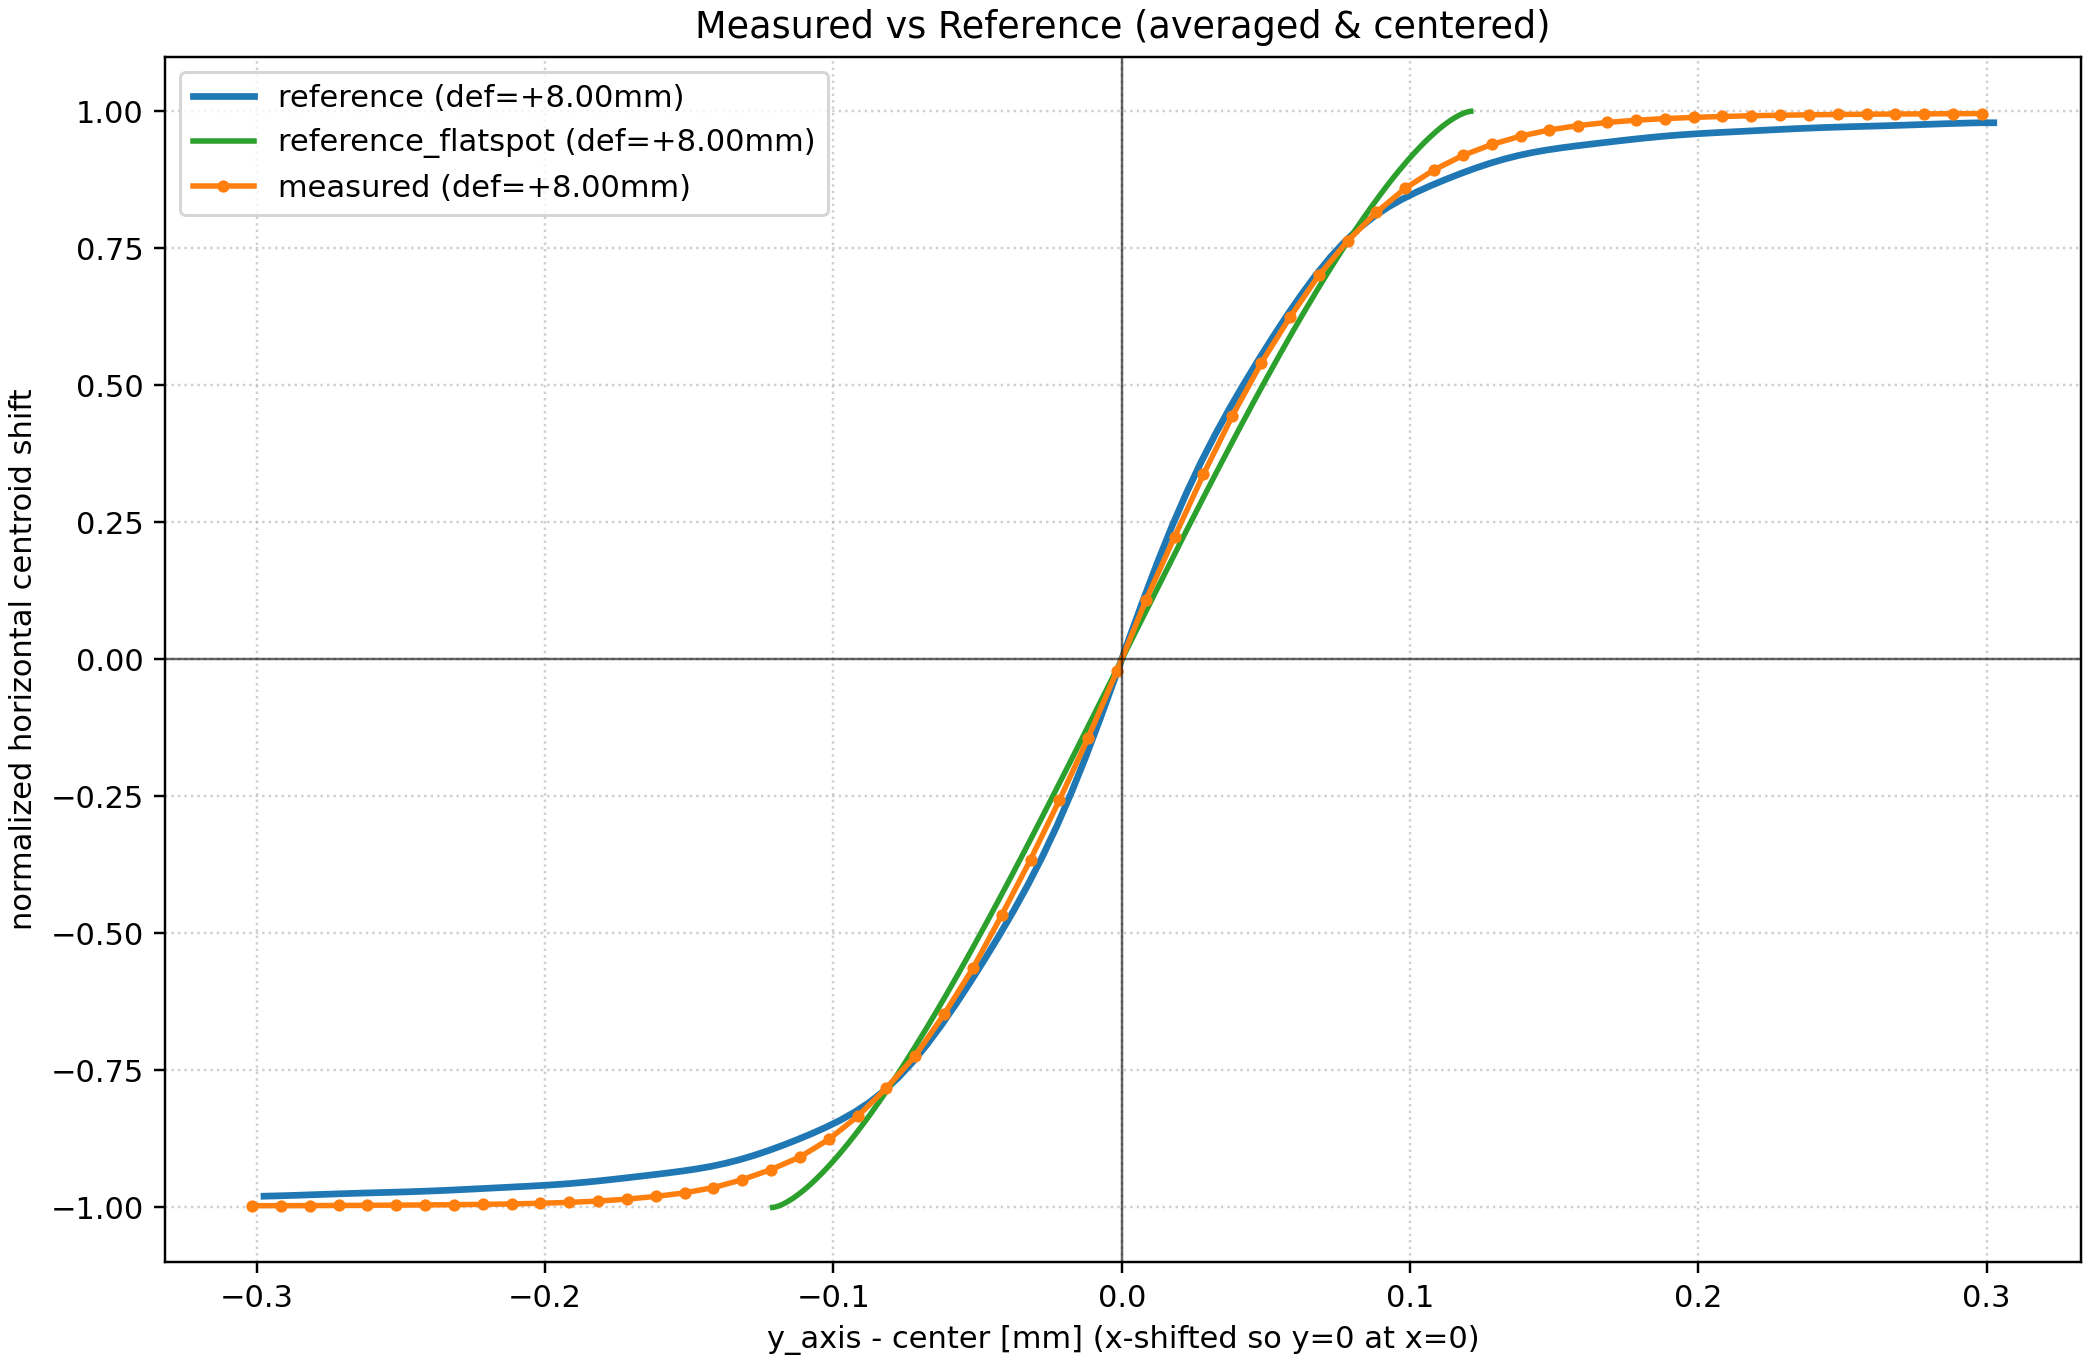
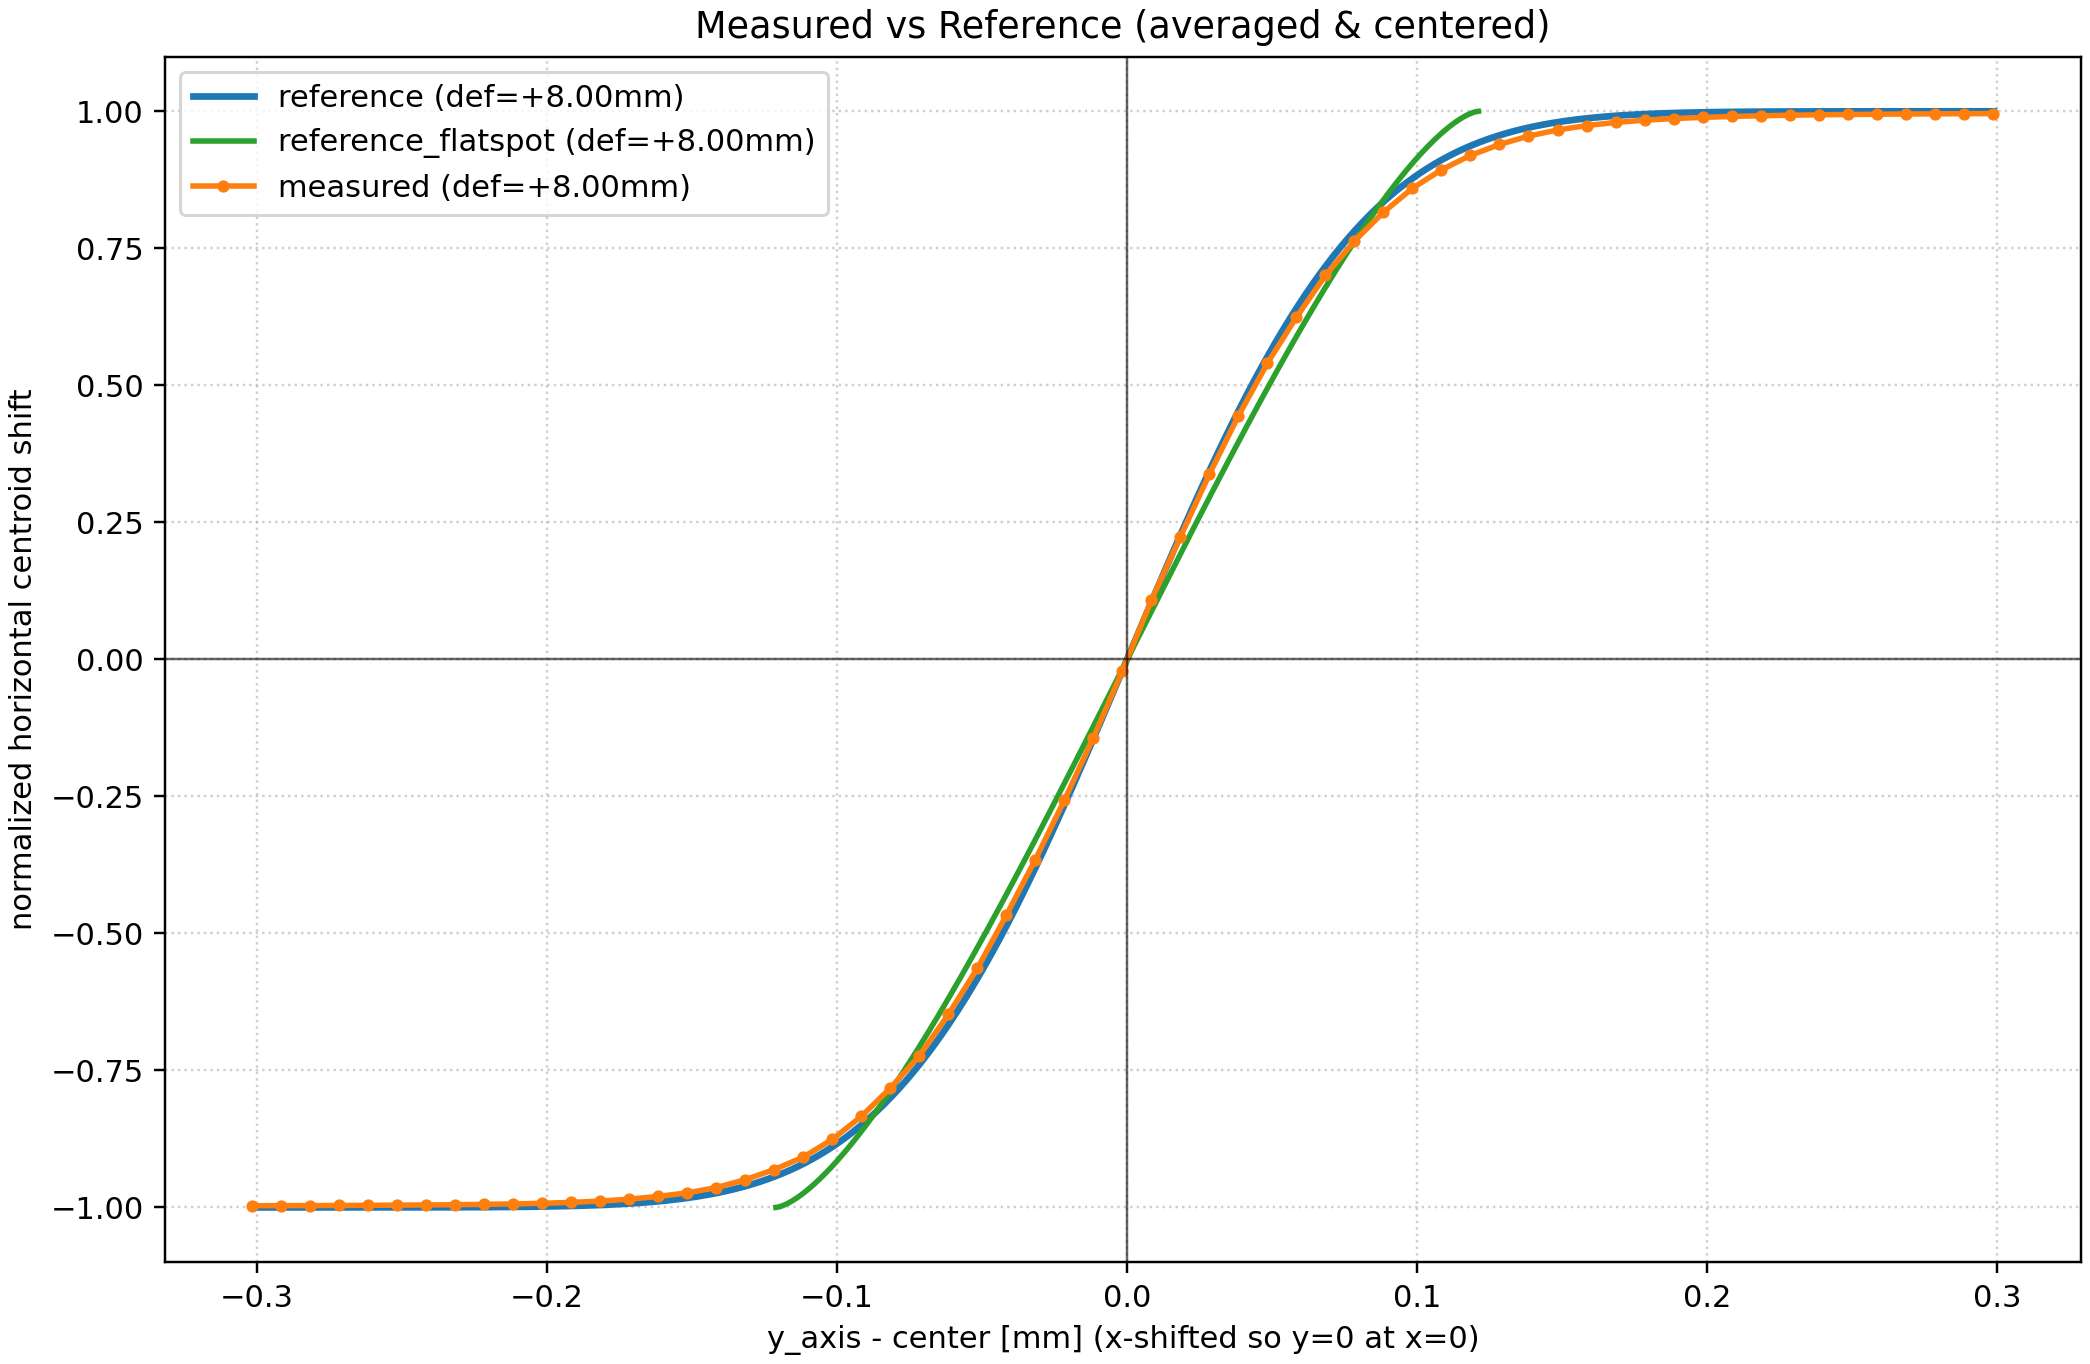
設樂さんQDガウシアンモード更新

diff --git a/compare_defocus.py b/compare_defocus.py
@@ -39,9 +39,10 @@ from plot_all_centroid_ave import compute_centered_avg_series, compute_x_interce
 REFERENCE_CSV_OPTIONS = {
     "185dBm_test": Path("reference_csv") / "voltage_raito_-185dBm_test.csv",
     "227_v2": Path("reference_csv") / "voltage_raito_227_v2.csv",
+    "gauss": Path("reference_csv") / "voltage_ratio_gauss.csv",
 }
 # Change this key to switch the default reference dataset
-REFERENCE_SELECTION = "227_v2"
+REFERENCE_SELECTION = "gauss"
 REFERENCE_CSV_DEFAULT = REFERENCE_CSV_OPTIONS[REFERENCE_SELECTION]
 FLATSPOT_CSV_DEFAULT = Path("reference_csv") / "voltage_ratio_flat_spot.csv"
 
